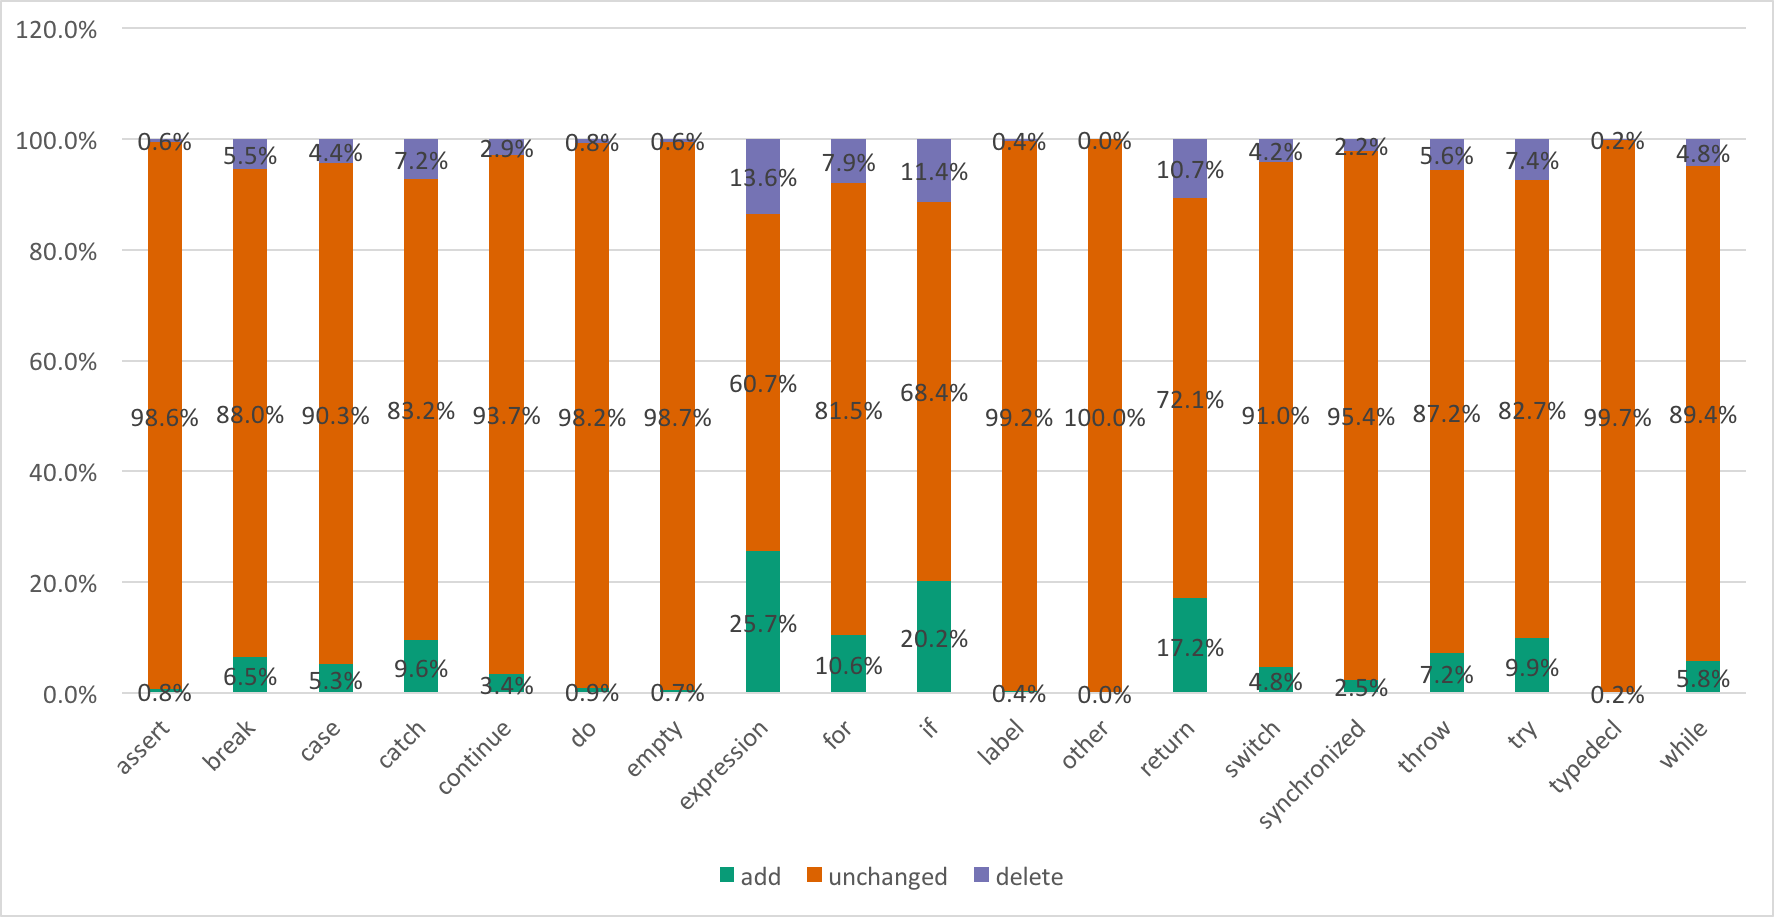
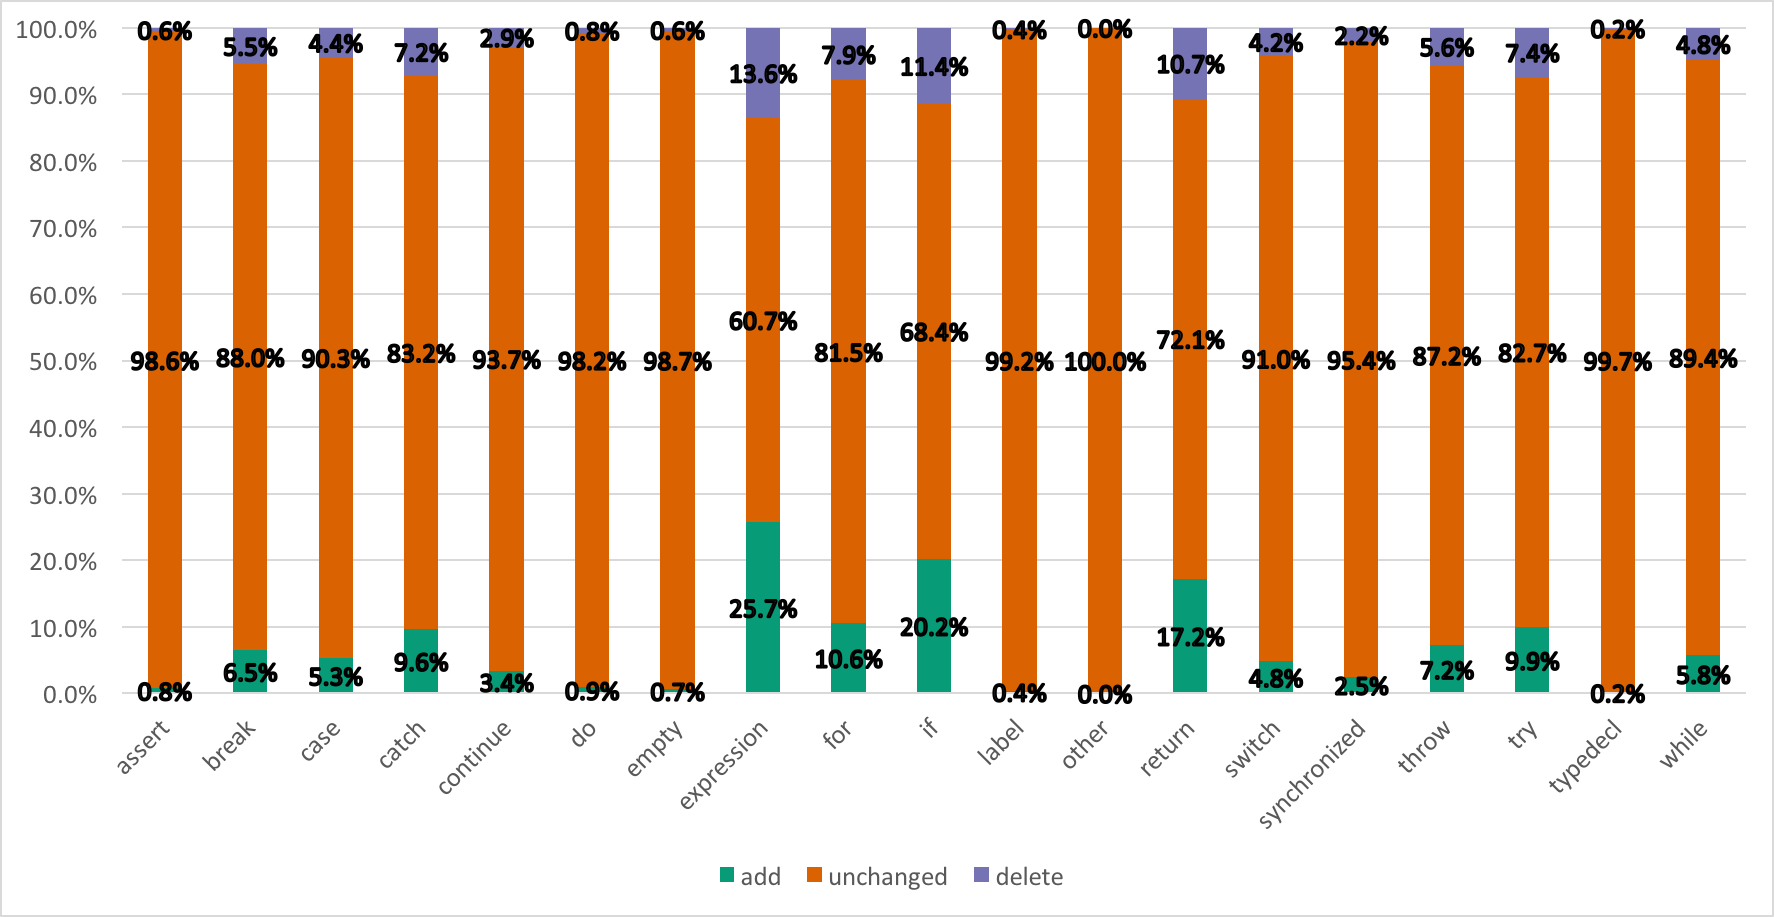
Revised Sec.4

diff --git a/MSRChallenge2016.tex b/MSRChallenge2016.tex
@@ -144,6 +144,7 @@ Mauricio Soto\\
        \email{ferdiant.2013@smu.edu.sg}
 % 2nd. author
 \alignauthor Chu-Pan Wong   \\
+       \affaddr{School of Computer Science}\\
        \affaddr{Carnegie Mellon University}\\
        \affaddr{Pittsburgh, PA}\\
        \email{chupanw@cs.cmu.edu}       
@@ -315,33 +316,28 @@ dataset~\cite{dyer2013}.
 \section{Dataset and Characteristics}
 
 We begin by broadly characterizing the bug-fixing changes to Java code in our
-dataset. 
-We perform our analysis on the \emph{2015 September/Github} dataset on Boa, 
-which includes $7,830,023$ Java projects with $23,229,406$ revisions. Among
+dataset.  We perform our analysis on the \emph{2015 September/Github} dataset on
+Boa, which includes $7,830,023$ Java projects with $23,229,406$ revisions. Among
 all the revisions, $4,590,679$ revisions are identified by Boa as bug fixing
 revisions.
 
-\paragraph{How many files are changed to fix a bug?}
-To answer this question, we identify all the bug fixing revisions in our dataset
-and count the number of changed files. A file was changed if (1) it was a new
-file; (2) or it was modified; (3) or it was deleted. In total, $52,052,571$
-files got changed. Thus, on average each bug fixing revision changes 11.3 files.
-This number is surprisingly high because most automatic program repair
-techniques assume that bugs are local in most cases. There could be several
-reasons behind this number. It could be the case that other software artifacts
-(e.g.  documentation) are updated after bug fixing. It could also be the case
-that bug fixing commit also contains changes that are not related to fixing bug
-(e.g. refactoring, adding new features by creating new files). To better
-understand why so many files are changed, we continue to ask:
+\subsubsection*{How many files are changed to fix a bug?} \vspace{-0.3em} 
 
-\paragraph{What are the file types of those changed files?}
-In Boa, each changed file is represented by a \emph{ChangedFile} node, and it
-has a field called \emph{FileKind}, describing the type of each file. As
-mentioned earlier, a \emph{ChangedFile} could be either a new file or an
-existing file (if the bug fixing revision modified or deleted the file).
-Table~\ref{tbl:fileType} shows the file types that Boa could identify. To answer
-this question, we iterate all the changed files in each bug fixing revision and
-count the total number for each file type. Results are shown in
+A file was changed if (1) it was a new file; (2) or it was modified; (3) or it
+was deleted. In total, $52,052,571$ files got changed. Thus, on average each bug
+fixing revision changes $11.3$ files.  This number is surprisingly high because
+most automatic program repair techniques assume that bugs are local in most
+cases. There could be several reasons behind this number. It could be the case
+that other software artifacts (e.g.  documentation) are updated after bug
+fixing. It could also be the case that bug fixing commit also contains changes
+that are not related to fixing bug (e.g. refactoring, adding new features by
+creating new files). To better understand why so many files are changed, we
+continue to ask:
+
+\subsubsection*{What are the file types of those changed files?} \vspace{-0.3em}
+
+To answer this question, we iterate all the changed files in each bug fixing
+revision and count the total number for each file type. Results are shown in
 Table~\ref{tbl:fileType}.
 
 \begin{table}
@@ -362,52 +358,46 @@ Table~\ref{tbl:fileType}.
   \label{tbl:fileType}
 \end{table}
 
-\emph{SOURCE\_JAVA\_ERROR} file kind represents files that Boa failed to parse.
-\emph{JLS2} refers to Java files that are written in all versions of Java
-languages up to and including J2SE 1.4. \emph{JLS3} refers to J2SE 1.5, and JLS4
-refers to J2SE 1.6 and 1.7. Boa documentation does not explicitly explain what
-is \emph{TEXT} and what is \emph{UNKNOWN}. Our assumption is that \emph{TEXT}
-refers to files whose file name ends with ``.txt'', and \emph{UNKNOWN} refers to
-all other kinds of files (e.g. .c file, .cpp files).
+SOURCE\_JAVA\_ERROR file kind represents files that Boa failed to parse. JLS2,
+JLS3, and JLS4 represent Java files written in different J2SE version. Boa
+documentation does not explicitly explain what is TEXT and what is UNKNOWN. From
+Table~\ref{tbl:fileType}, we can see that TEXT files and BINARY files are
+changed least frequently. This is not surprising because TEXT files are usually
+documentation files, and BINARY files should only be changed in rare case (e.g.
+milestone, new release, dependency update). If we consider all 4 kinds of Java
+files as one kind, then on average each bug fixing revision changes $4.47$ Java
+files. But still, it does not conform to our assumption of bug locality. XML
+files in Java projects usually represents build files, thus changing one build
+file after each bug fixing is not surprising.  What surprises us is that UNKNOWN
+files are changed most frequently. Note that all the projects in our dataset are
+Java projects, so it is reasonable to assume that these files are not source
+files that written in other programming languages.  One possible explanation is
+that they are test resources. However, due to the limitations of Boa, we can not
+look into the content of these files. 
 
-From Table~\ref{tbl:fileType}, we can see that \emph{TEXT} files and
-\emph{BINARY} files are changed least frequently. This is not surprising because
-\emph{TEXT} files are usually documentation files, and \emph{BINARY} files
-should only be changed in rare case (e.g.  milestone, new release, dependency
-update). If we consider all 4 kinds of Java files as one kind, then on average
-each bug fixing revision changes $4.47$ Java files. But still, it does not
-conform to our assumption of bug locality. \emph{XML} files in Java projects
-usually represents build files, thus changing one build file after each bug
-fixing is not surprising.  What surprises us is that \emph{UNKNOWN} files are
-changed most frequently. Note that all the projects in our dataset are Java
-projects, so it is reasonable to assume that these files are not source files
-that written in other programming languages.  One possible explanation is that
-they are test resources. However, due to the limitations of Boa, we can not look
-into the content of these \emph{UNKNOWN} files. 
+It could be the case that among those $4.47$ changed Java files, some of them
+are related to testing, such as modifying the test cases and creating new test
+classes. To better understand what changes are usually made to Java source code
+files, we continue to ask:
 
-Since Boa does not distinguish Java files that related to functionality and Java
-files that related to testing, it could be the case that among those $4.47$
-changed Java files, some of them are related to testing, such as modifying the
-test cases and creating new test classes. To better understand what changes are
-usually made to Java source code files, we continue to ask:
+\subsubsection*{How often do developers introduce new classes, methods, fields,
+	local variables in
+bug fixing commits?} \vspace{-0.3em}
 
-\paragraph{
-How often do developers introduce new classes, methods, fields, variables in
-	bug fixing commits?}
-This research question is interesting because most automatic program repair
-approaches often do not create new classes/methods/fields/variables to fix bugs.
+This question is interesting because most automatic program repair approaches
+often do not create new classes/methods/fields/local variables to fix bugs.
 Most approaches guess and synthesize the patches based on existing source code,
-and direct translations of approaching from C to Java do not naturally consider
+and direct translations of approaches from C to Java do not naturally consider
 object-oriented concerns, like fields or classes. 
 
-Table~\ref{tbl:new} shows our analysis results. This table shows that
-introducing new classes and new variables are rare. This is good news for
-automatic program repair approaches. On average, we still have $0.69$ new method
-per bug fix. If we consider the possibility of creating new test method (i.e.
-methods that annotated by @Test if JUnit is used), this number is not that
-scary. However, what surprises us is that $1.32$ fields are created per bug fix.
-This indicates that automatic program repair approaches should pay attention to
-the state of the class when fixing Java programs.
+Table~\ref{tbl:new} shows our analysis results. It shows that introducing new
+classes and new variables are rare, which is good news for automatic program
+repair approaches. On average, we still have $0.69$ new method per bug fix. If
+we consider the possibility of creating new test method (i.e.  methods that
+annotated by @Test if JUnit is used), this number is not that scary. However,
+what surprises us is that $1.32$ fields are created per bug fix.  This indicates
+that automatic program repair approaches should pay attention to the state of
+the class when fixing Java programs.
 
 \begin{table}
 \centering
@@ -419,7 +409,7 @@ the state of the class when fixing Java programs.
   Fields & 6,076,646 & 1.32 \\ \hline
   Variables & 924,259 & 0.2 \\ \hline
   \end{tabular}
-  \caption{Introducing new classes, methods, fields, variables to fix bugs}
+  \caption{Introducing new classes, methods, fields, local variables to fix bugs}
   \label{tbl:new}
 \end{table}
 
@@ -646,6 +636,7 @@ order to generate patches that make more sense to human developers, it would be
 beneficial to analyze how developers mutate source code to fix bugs. 
 
 \subsection{Replacements}
+
 Because direct diffs are difficult to identify, we heuristically approximate the
 extent to which one statement type appears to be ``replaced'' by another across
 this dataset.  To do this, for each modified file, we count the number of
@@ -653,93 +644,78 @@ appearances of each statement type in the file pre- and post-commit.  We then
 compare the results to see how many of each statement type was removed, and how
 many inserted, to roughly characterize the types of replacement that happen at a
 per-file level.  For each statement type (as tagged by the Boa infrastructure
-for Java), we process the results as follows: 
-if number of occurrences of one statement type decreased post-fix and the number of
-another type increased, we say that
-the first statement type was replaced by the second statement type for that
-file. 
+for Java), we process the results as follows: if number of occurrences of one
+statement type decreased post-fix and the number of another type increased, we
+say that the first statement type was replaced by the second statement type for
+that file. It is important to notice that this analysis doesn't distinguish the
+replacement of the same statement kind, since we are counting the amount of
+appearances of each statement kind.
 
-It is important to notice that this analysis doesn't consider replacing an
-statement kind for a different version of the same statement kind, since it is
-counting the amount of appearances of each statement kind. So, if for example,
-the developer modifies the condition inside of an if statement, the amount of if
-statements in the file will remain the same.
+The numbers in the slots of Table~\ref{tab:likeliness} \todo{shall we add \% in
+this table?}, represent the percentage rate at which the elements of the
+leftmost column were replaced by the elements of the top row. In the first
+column we have the list of statements that are being replaced (faulty statements
+that were removed), and on the top row we have the list of statements for which
+that statement was replaced for (the new statement put instead). For example, if
+we take the intersection of row 5 (DoStatement row) and column 2 (AsserStatement
+column) of the data, we have a 0.81, which means that Do statements were
+replaced by Assert statements 0.81\% of the times.
 
-The numbers in the slots of Table~\ref{tab:likeliness}, represent the percentage rate at which the
-elements of the leftmost column were replaced by the elements of the top row. In
-the first column we have the list of statements that are being replaced (faulty
-statements that were removed), and on the top row we have the list of statements
-for which that statement was replaced for (the new statement put instead). For
-example, if we take the intersection of row 5 (DoStatement row) and column 2
-(AsserStatement column) of the data, we have a 0.81, which means that Do statements were replaced by Assert statements 0.81\% of the times.
+Our results show that the most common replacement is replacing Return statement
+with If statement, which showed up in 30,489 files. The second most common
+replacement is replacing an If statement with a Return statement, which had
+28,536 appearances. We found that the most common \emph{Replacer} statement kind
+(the statement kind that most commonly replaces others) is the \textbf{If
+Statement} with 101,366 appearances; and the least common \emph{Replacer} is the
+\textbf{Type Declaration Statement} with 447 appearances.
 
-\subsubsection{Most common replacements}
-Our results show that the most common replacement is when developers remove a
-Return statement and insert an If statement. This showed up in 30,489 files in
-the code database. The second most common replacement is removing an If
-statement and insert a Return statement instead, which had 28,536 appearances in
-the code database. Third to that, is to remove a Return statement and insert a
-Throw statement.
+On the opposite side of the data, the least common replacement was an Assert
+statement replacing a Type Declaration statement, which had zero appearances.
+The second least common replacement were replacing a Do statement with a Type
+Declaration statement and replacing a Label with a Type Declaration, both of
+which had one appearance respectively in our search. The most common $Replacee$
+(the most likely statement kind to be replaced by another statement kind) is the
+\textbf{Return Statement} with 111,938 appearances; and the least common
+$Replacee$ is the \textbf{Type Declaration Statement} with 399 appearances.
 
-\subsubsection{Least common replacements}
-On the opposite side of the data, we can see that the least common replacement
-was an Assert statement replacing a Type Declaration statement, which has zero appearances. The second least common replacement was
-removing a Do statement and insert a Type Declaration statement, with one
-appearance in our search, and on third place, removing a Label and insert
-a Type Declaration Statement had one appearance in our search.
+\subsection{Deletions and Insertions}
 
+\begin{figure*}[!t] \centering \includegraphics[height=0.3\textheight,
+	width=0.8\textwidth]{StmtType} \caption{For each kind of statement, how many
+	bug fixing revisions add/delete statements of the same kind?}
+	\label{fig:StmtType} \end{figure*}
 
-\subsection{Deletions and insertions}
-
-
-\begin{figure*}[!t] \centering
-	\includegraphics[height=0.3\textheight, width=1\textwidth]{StmtType} \caption{For each kind
-	of statement, how many bug fixing revisions add/delete statements of the
-same kind?} \label{fig:StmtType} \end{figure*}
-\todo{I'm not sure the percentages in Figure~\ref{fig:StmtType} are visible, maybe moving the numbers so they don't overlap with the bars?}
 For each bug fixing revision $r$ and each statement kind $k$, we count how many
 statements of kind $k$ are there in revision $r$ and $r-1$ ($r-1$ means the
 revision before revision $r$), and then compare the two numbers. 
 
-From Figure~\ref{fig:StmtType} \todo{fix the small fonts in this graph}, we can
-see that expression, if, return, for and try catch statements are added most
-often. On the other hand, the same types of statements are also deleted most
-often. This finding indicates that most bugs were fixed by changing the control
-flow of the program using if, return, for, while, and try catch statements. 
+From Figure~\ref{fig:StmtType}, we can see that, expression, if, return, for and
+try catch statements are added most often. Meanwhile, the same types of
+statements are also deleted most often. This finding indicates that most bugs
+were fixed by changing the control flow of the program.
 
-For each bug fixing revision, the results discussed above consider both newly
-added files and existing files. Since most automatic program repair approaches
-do not generate new files to fix bugs, the rest of this section only considers
-files that were already in the repositories when developers fixed bugs. Our
-analysis shows that there are 46,301,429 of them.
 
-We found that the most common $Replacer$ statement kind (the statement
-kind that most commonly replaces others) is the \textbf{If Statement} with
-101,366 appearances; and the least common $Replacer$, is the \textbf{Type Declaration
-  Statement} with 447 appearances.
+\subsection{Applicability to Automatic Error Repair} 
 
-The most common $Replacee$ (the most likely statement kind to be replaced
-by another statement kind) is the \textbf{Return Statement} with 111,938
-appearances; and the least common $Replacee$ is the \textbf{Type Declaration Statement}
-with 399 appearances.
-
-\subsection{Applicability to Automatic Error Repair}
 This study is directly applicable to automatic software repair. Most common
-tools for automatic software repair~\cite{kim2013,weimer2009,legoues2012}
-first find a faulty statement using several different fault localization
+tools for automatic software repair~\cite{kim2013,weimer2009,legoues2012} first
+find a faulty statement using several different fault localization
 techniques~\cite{fry2010}, and once they have that faulty statement, they apply
 different kinds of edits to it, usually at random. Which makes it equally likely
 to replace an statement for another without looking at the kinds of statements
-being replaced.
-
-With this study, we are able to make a more accurate guess, when having a known
-faulty statement, of which statements more commonly replace that faulty one to build a successful patch based on the data from Table~\ref{tab:likeliness}. Similarly with Figure~\ref{fig:StmtType}, we can have an informed guess of how often programmers insert or delete that particular kind of statement.
+being replaced. With this study, we are able to make a more accurate guess based
+on the phenomenon we observed from Table~\ref{tab:likeliness} and
+Figure~\ref{fig:StmtType}.
 
 For example, if we are fixing a Java program, and we have a faulty statement
-that happens to be a For Statement. Then we can look for the most likely statements to replace a For Statement (row 6): If statement (22.89\% likeliness), Return statement (21.08\%), and a While statement (13.79\% of likeliness to replace a For Statement). We also know that there is a 7.9\% of cases in which human programmers deleted this kind of statement, and in 10.6\% of the cases, a For statement was added to patch a bug. This
-way we provide guidelines to
-the automatic bug repair approaches to consider this on their effort to find a
-patch.
+that happens to be a For Statement. Then we can look for the most likely
+statements to replace a For Statement (row 6): If statement (22.89\%
+likeliness), Return statement (21.08\%), and a While statement (13.79\% of
+likeliness to replace a For Statement). We also know that there is a 7.9\% of
+cases in which human programmers deleted this kind of statement, and in 10.6\%
+of the cases, a For statement was added to patch a bug. This way we provide
+guidelines to the automatic bug repair approaches to consider this on their
+effort to find a patch.
 
 \section{Threats to Validity} 
 
@@ -751,16 +727,12 @@ this}
 
 Some threats to our study are due to the limitation of Boa. For example, we rely
 on Boa to identify bug fixing revisions, but it is unclear whether those
-identified revisions are actually related to bug fixing. Chances are that there
-exist some other bug fixing revisions, but Boa could not identify them. It is
-also possible that bug fixing revisions identified by Boa actually include other
-code changes, such as implementing new features, refactoring the code base.
-After all, identifying bug fixing revisions from revision history is still an
-open problem. Another big limitation of Boa is that there is no easy to get a
-precise statement-level diff between two revisions. Thus, our template matching
-and analysis of code changes (by counting each statement kind) could be
-inaccurate. However, our results should provide upper bounds for the questions
-we investigated. 
+identified revisions are actually related to bug fixing. After all, identifying
+bug fixing revisions from revision history is still an open problem. Another big
+limitation of Boa is that there is no easy way to get a precise statement-level
+diff between two revisions. Thus, our template matching and analysis of code
+changes (by counting each statement kind) could be inaccurate. However, our
+results should provide upper bounds for the questions we investigated. 
 
 \section{Conclusions}
 We have characterized bug fixing changes in Java.
